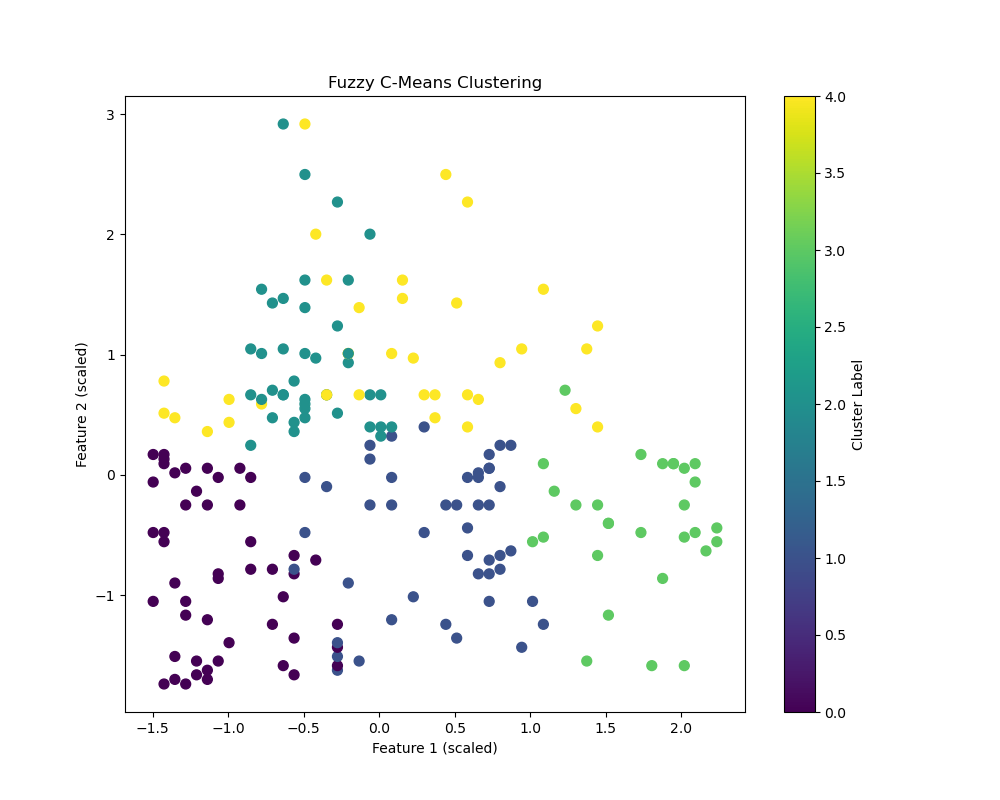
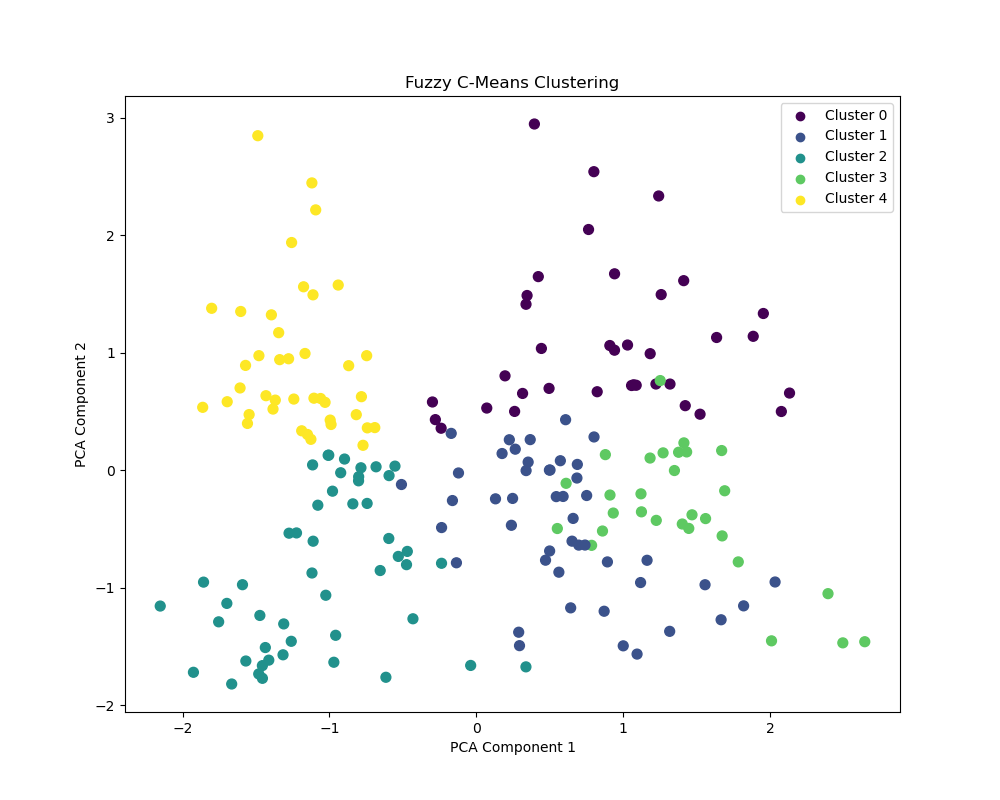
add centriod graph and distortion graph for means algos

diff --git a/main.py b/main.py
@@ -15,6 +15,7 @@ from sklearn.mixture import GaussianMixture
 from sklearn.metrics import silhouette_score
 import skfuzzy as fuzz
 from scipy.spatial.distance import cdist
+from sklearn.decomposition import PCA
 #################################################################################
 
 
@@ -53,6 +54,7 @@ class ClusterPlay:
         plt.figure(figsize=(10, 8))
         sns.heatmap(corr_matrix, annot=True, cmap="coolwarm")
         plt.title("Correlation Graph")
+        plt.show()
         plt.savefig("correlation_graph.png")
         plt.close()
 
@@ -65,6 +67,7 @@ class ClusterPlay:
         plt.xlabel('Annual Income')
         plt.ylabel('Spending Score')
         plt.title('Customer Data')
+        plt.show()
         plt.savefig("customer_data_scatter.png")
         plt.close()
 
@@ -78,6 +81,7 @@ class ClusterPlay:
         plt.ylabel('Spending Score (1-100)')
         plt.title('Annual Income vs Spending Score by Gender')
         plt.legend()
+        plt.show()
         plt.savefig("income_vs_spending_by_gender.png")
         plt.close()
 
@@ -111,11 +115,77 @@ class ClusterPlay:
         plt.title('Spending Score Distribution')
 
         plt.tight_layout()
+        plt.show()
         plt.savefig("distribution_plots.png")
         plt.close()
 
+    # replacing seprate elbow method and distortion is included in it with graph
+    def elbow_method_kmeans(self, max_clusters=10):
+        inertia = []
+        distortion = []
+        for i in range(1, max_clusters + 1):
+            kmeans = KMeans(n_clusters=i, random_state=42)
+            kmeans.fit(self.scaled_data)
+            inertia.append(kmeans.inertia_)
+            if i > 1:  # Distortion is only calculated for 2 or more clusters
+                distances = cdist(self.scaled_data, kmeans.cluster_centers_, 'euclidean')
+                min_distances = np.min(distances, axis=1)
+                distortion.append(np.mean(min_distances ** 2))
+            else:
+                distortion.append(None)  # No distortion for 1 cluster
 
+        # Plotting Elbow Method and Distortion
+        plt.figure(figsize=(10, 8))
+        plt.subplot(2, 1, 1)
+        plt.plot(range(1, max_clusters + 1), inertia, marker='o')
+        plt.xlabel('Number of Clusters')
+        plt.ylabel('Inertia')
+        plt.title('Elbow Method for K-Means')
 
+        plt.subplot(2, 1, 2)
+        plt.plot(range(2, max_clusters + 1), distortion[1:], marker='o')  # Start from 2 clusters
+        plt.xlabel('Number of Clusters')
+        plt.ylabel('Distortion')
+        plt.title('Distortion for K-Means')
+
+        plt.tight_layout()
+        plt.show()
+        plt.savefig("elbow_&_distortion_kmeans.png")
+        plt.close()
+
+    def elbow_method_fuzzy(self, max_clusters=10):
+        fpc_fcm = []
+        distortion = []
+        for i in range(1, max_clusters + 1):
+            cntr, u, _, _, _, _, fpc = fuzz.cluster.cmeans(self.scaled_data.T, c=i, m=2, error=0.005, maxiter=1000)
+            fpc_fcm.append(fpc)
+            if i > 1:  # Distortion is only calculated for 2 or more clusters
+                distances = cdist(self.scaled_data, cntr, 'euclidean')
+                min_distances = np.min(distances, axis=1)
+                distortion.append(np.mean(min_distances ** 2))
+            else:
+                distortion.append(None)  # No distortion for 1 cluster
+
+        # Plotting Elbow Method and Distortion
+        plt.figure(figsize=(10, 8))
+        plt.subplot(2, 1, 1)
+        plt.plot(range(1, max_clusters + 1), fpc_fcm, marker='o')
+        plt.xlabel('Number of Clusters')
+        plt.ylabel('Fuzzy Partition Coefficient')
+        plt.title('Elbow Method for Fuzzy C-Means')
+
+        plt.subplot(2, 1, 2)
+        plt.plot(range(2, max_clusters + 1), distortion[1:], marker='o')  # Start from 2 clusters
+        plt.xlabel('Number of Clusters')
+        plt.ylabel('Distortion')
+        plt.title('Distortion for Fuzzy C-Means')
+
+        plt.tight_layout()
+        plt.show()
+        plt.savefig("elbow_fuzzy.png")
+        plt.close()
+
+    ### not using this #########
     def elbow_method(self):
         inertia = []
         for i in range(1, 11):
@@ -136,7 +206,8 @@ class ClusterPlay:
         self.data['KMeans Cluster'] = kmeans.labels_
         return kmeans.labels_, kmeans
 
-    ######## added taj code here #################
+    ########### not using this ##################
+    ######## added taj code here where ever distortion is present  #################
     def calculate_distortion(self, model):
         # Calculate distortion
         distances = cdist(self.scaled_data, model.cluster_centers_, 'euclidean')
@@ -163,15 +234,40 @@ class ClusterPlay:
         print(f'Silhouette Score: {silhouette_avg}')
         return silhouette_avg
 
-    def plot_clusters(self, labels, title):
+    def plot_clusters(self, labels, title, algo_kmean=False):
+        # Reduce dimensions using PCA
+        pca = PCA(n_components=2)
+        X_pca = pca.fit_transform(self.scaled_data)
         plt.figure(figsize=(10, 8))
-        plt.scatter(self.scaled_data[:, 0], self.scaled_data[:, 1], c=labels, cmap='viridis', s=50)
+        # Create a scatter plot for the clusters
+        scatter = plt.scatter(X_pca[:, 0], X_pca[:, 1], c=labels, cmap='viridis', s=50)
+        # Add a legend for the clusters
+        unique_labels = np.unique(labels)
+        for label in unique_labels:
+            plt.scatter([], [], color=scatter.cmap(scatter.norm(label)), label=f'Cluster {label}')
+        if algo_kmean:
+            # Calculate centroids in the PCA space
+            centroids_pca = []
+            for label in unique_labels:
+                cluster_data = self.scaled_data[labels == label]
+                centroid = np.mean(cluster_data, axis=0)
+                centroids_pca.append(pca.transform([centroid]))
+            # Add centroids to the plot (only one entry in the legend)
+            centroid_color = 'yellow'
+            for centroid in centroids_pca:
+                plt.scatter(centroid[0][0], centroid[0][1], s=100, c=centroid_color, edgecolor='black', marker='o')
+
+            # Add a single legend entry for centroids
+            plt.scatter([], [], s=100, color=centroid_color, edgecolor='black', label='Centroids')
+
         plt.title(title)
-        plt.xlabel('Feature 1 (scaled)')
-        plt.ylabel('Feature 2 (scaled)')
-        plt.colorbar(label='Cluster Label')
+        plt.xlabel('PCA Component 1')
+        plt.ylabel('PCA Component 2')
+        plt.legend()
+        plt.show()
         plt.savefig(f"{title.replace(' ', '_').lower()}.png")
         plt.close()
+
 
 def main():
     file_name = "~/project1/Mall_Customers.csv"
@@ -182,31 +278,44 @@ def main():
     pro.correlation_graph()
     #normalize features
     pro.normalize_features(pro.data[["Age", "Annual Income (k$)", "Spending Score (1-100)"]])
-    # Elbow method
-    pro.elbow_method()
-    # k-means 
+    # elbow method
+    # pro.elbow_method()
+   
+    ################# k-means #################################################
+
+  
+    ## elbow method include both distortion ,elbow and graph
+    print("K means")
+    pro.elbow_method_kmeans()
     kmeans_labels, kmeans_model = pro.kmeans_clustering(n_clusters=5)
     pro.evaluate_clustering(kmeans_labels)
-    
-    # cal distortion
-    distortion = pro.calculate_distortion(kmeans_model)
-    print(f'Distortion: {distortion}')
-    
     # plot k -means cl
-    pro.plot_clusters(kmeans_labels, "K-Means Clustering")
+    #print(kmeans_labels)
+    pro.plot_clusters(kmeans_labels, "K-Means Clustering",True)
+    #### neeed to summary clutter analysis form taj
 
-    # f k-means
+
+    ################# k-means ##################################################
+
+    
+    ########################## fuzzy  k-means######################################
+    print("fuzzy k means")
+    pro.elbow_method_fuzzy()
     fuzzy_labels, fpc = pro.fuzzy_cmeans_clustering(n_clusters=5)
     fuzzy_silhouette = pro.evaluate_clustering(fuzzy_labels)
     print(f'Fuzzy Partition Coefficient: {fpc}')
-
     # plot fkm
     pro.plot_clusters(fuzzy_labels, "Fuzzy C-Means Clustering")
+    #### neeed to summary clutter analysis form taj
+    ######################### fuzzy k-means ########################################
 
-    # gaussian Mixture 
+
+
+    ######################## gaussian Mixture ####################################
+    print("gaussian")
     gmm_labels,gmm_model = pro.gaussian_mixture_clustering(n_clusters=5)
     pro.evaluate_clustering(gmm_labels)
-    
+  
     ## for now not able calucuate distortion got to see the methods  is working both fuzz and gaus
     #distortion = pro.calculate_distortion(gmm_model)
     #print(f'Distortion: {distortion}')
